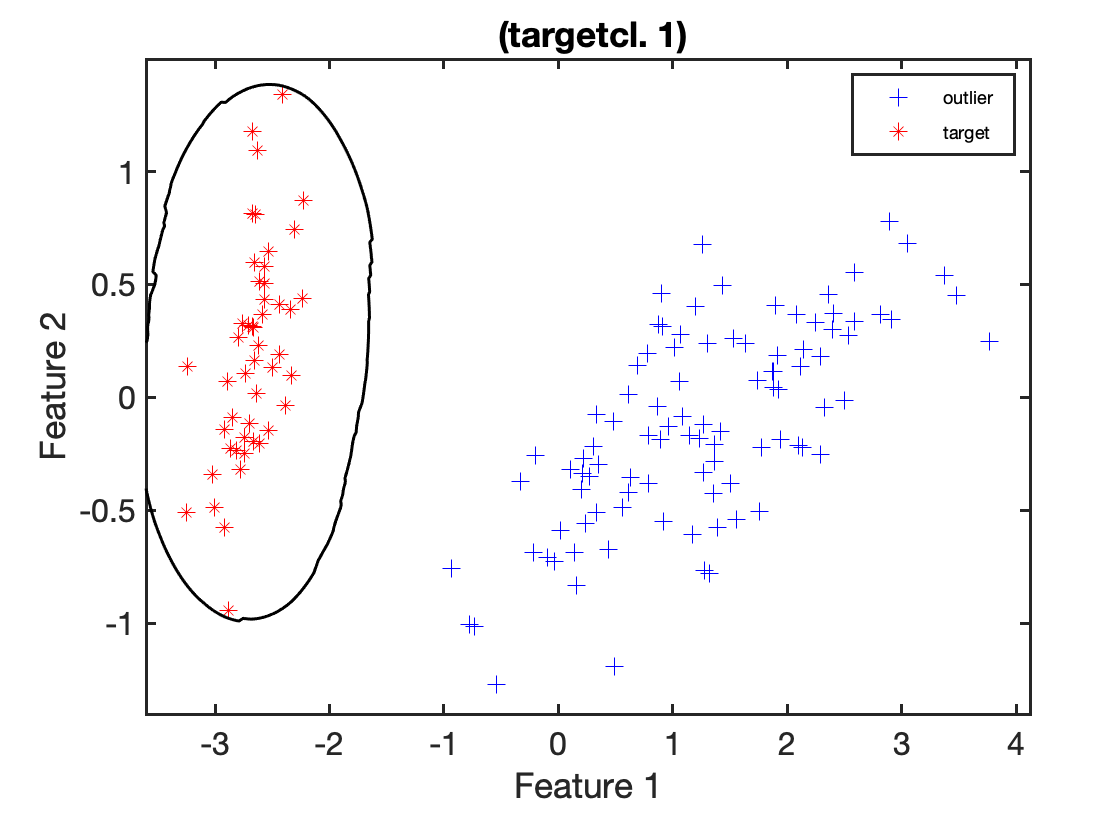
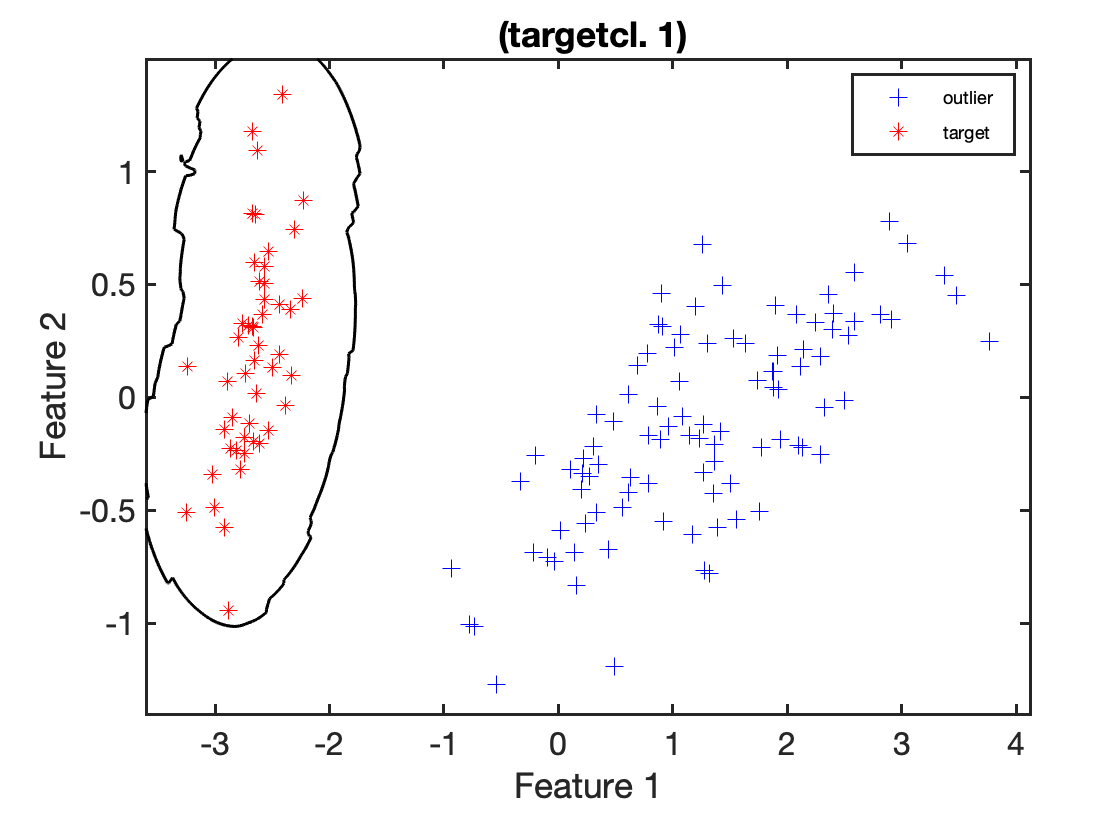
Figures

Changed region(s): [[0.1875, 0.0619, 0.3438, 0.7119], [0.125, 0.1238, 0.1875, 0.4643], [0.125, 0.619, 0.25, 0.7429]]

diff --git a/Algorithms/loci.m b/Algorithms/loci.m
@@ -23,14 +23,7 @@
 % "LOCI: fast outlier detection using the local correlation integral", in 
 % Proceedings of the 19th International Conference on Data Engineering, 2003
 %
-% SEE ALSO
-% datasets, lofdd, knndd
-%
-% Copyright: J.H.M. Janssens, jeroen@jeroenjanssens.com
-% TiCC, Tilburg University
-% P.O. Box 90153, 5000 LE Tilburg, The Netherlands
 
-%function W = locidd(a, fracrej, alpha, forced_threshold, min_n)
 function W = loci(varargin)
 
 argin = shiftargin(varargin,'scalar');
@@ -49,44 +42,140 @@ elseif mapping_task(argin,'training')			% Train a mapping.
     % m = number of objects
     % d = number of dimensions
     [m,d] = size(a);
-
+    
     if(m < 2)
-    	warning('dd_tools:InsufficientData','Dataset contains less than 2 objects');
+        warning('dd_tools:InsufficientData','Dataset contains less than 2 objects');
     end
 
     % Calculate the Euclidian distance matrix and sort it per object
     distmat = sqrt(sqeucldistm(a,a));
     [sD,~] = sort(distmat,2);
-    
+        
     % Each object p has a different set of (alpha) critical distances:
     critical_distances = sort([sD sD/alpha],2);
-    
+    num_critical_distances = size(critical_distances,2);
+
     % Determine for each critical distance which object should be updated:
     [all_critical_distances, ind_all_cd] = sort(critical_distances(:));
     [objects_i, ~] = ind2sub(size(critical_distances), ind_all_cd);
     duplicate_cd = [logical(diff(all_critical_distances)==0); 0];
     duplicate_ind = find(duplicate_cd == 0);
-
+    duplicate_ind_i = 1;
     clear duplicate_cd;
-        
+    
+    % Allocate matrices for the n, nhat, and MDEF value for each
+    % object p, at each critical distance, so that later, a LOCI plot
+    % can be created using this mapping:
+    ns = zeros(m, num_critical_distances);
+    n_hats = zeros(m, num_critical_distances);
+    mdefs = zeros(m, num_critical_distances);
+    
+    % The threshold is determined using the k_sigma value of each object:
+    k_sigmas = zeros(m, 1);
+
+    % Because we increase the range of the neighborhoods, we keep track of
+    % each object what its current couting- and sampling-neighborhood is.
+    critical_distance_index = zeros(m,1);
+    current_alpha_neighborhood_size = zeros(m, 1);
+    current_neighborhood = zeros(m,m);
+
+    % Global critical distance index (to be used with the
+    % all_critical_distances vector):
+    cdi = 1;
+
     % Loop through all the critical distances
     % We use a while loop so that we can skip duplicates
     %disp('Calculating mdefs for all critical distances...');
-    [ns, k_sigmas] = loci_cpp(alpha, all_critical_distances, duplicate_ind, objects_i, distmat, sD, min_n);
+    while(cdi < size(all_critical_distances,1)+1)
+        
+        % Retrieve the actual range and alpha range:
+        r = all_critical_distances(cdi);
+        alpha_r = alpha * r;
+
+        % Are there duplicates of this critical distance?
+        to_cdi = duplicate_ind(duplicate_ind_i);
+        duplicate_ind_i = duplicate_ind_i + 1;
+        
+        % Which objects have this as a critical distance?
+        % (usually two)
+        objects = objects_i(cdi:to_cdi);
+        
+        % When an object has this critical distance more than once (when
+        % there are two other objects with the same distance to it), we
+        % increase their critical distance index with more than one:
+        x = sort(objects(:));
+        difference = diff([x;max(x)+1]);
+        count = diff(find([1;difference]));
+        objects_to_update = x(logical(difference));
+        critical_distance_index(objects_to_update) = critical_distance_index(objects_to_update) + count;
+        % objects_to_update now contains only unique objects
+        
+        % We need to update their neighborhoods first because they might
+        % influence each other with respect to MDEF and k_sigma etc (see below).
+        % Also note that LOCI distinguishes between a sampling (alpha)
+        % neighborhood and a counting neighborhood. That's why we have both
+        % r and alpha_r.
+        for object = objects_to_update'
+            % Update the alpha neighborhood size:
+            current_alpha_neighborhood_size(object) = size(find(sD(object,:) <= alpha_r),2);
+            % Update the couting neighborhood matrix:
+            current_neighborhood(object,:) = logical(distmat(object,:) <= r);
+        end
+
+        % Loop again over these objects to compute the MDEF and k_sigma
+        % values:
+        i = 0;
+        for object = objects_to_update'
+            % n = sampling neighborhood count:
+            n = current_alpha_neighborhood_size(object);
+            % n_hat = mean of sampling neighborhood count of the neighbors
+            % within the counting neighborhood:
+            n_of_r_neighbors = current_alpha_neighborhood_size(logical(current_neighborhood(object,:)));
+            n_hat = mean(n_of_r_neighbors);
+            % MDEF = multi-granularity deviation factor:
+            mdef = 1 - (n / n_hat);
+
+            % Standard deviation of alpha-neighborhood size of r-neighbors:
+            % (with 1e-10 we suppress the divide by zero warning)
+            sample_size = sum(current_neighborhood(object,:));
+            std_n_of_r_neighbors = sqrt(mean((n_of_r_neighbors - n_hat).^2)) + 1e-10;
+            normalized_deviation = std_n_of_r_neighbors / n_hat;
+            k_sigma = mdef / normalized_deviation;
+
+            % Get the critical distance indices of this object for which
+            % we are updating. Again, equal to the number of duplicate
+            % critical distances r:
+            i = i +1;
+            indices_to_update = critical_distance_index(object)-(count(i)-1):critical_distance_index(object);
+
+            % Update the matrices:
+            ns(object, indices_to_update) = n;
+            n_hats(object, indices_to_update) = n_hat;
+            mdefs(object, indices_to_update) = mdef;
+
+            % For stability (see article, min_n is 20 by default)
+            
+            if(sample_size >= min_n)
+                k_sigmas(object) = max(k_sigmas(object), k_sigma);
+            end
+        end
+
+        % Go to the next critical distance (which isn't a duplicate of the current one)
+        cdi = to_cdi + 1;
+    end
 
     % In the LOCI article, the threshold k_sigma is set to 3.
     % If you which to force this, then you need to specify it as a
     % paramater. Otherwise it is computed like all other data description
     % methods.
-    
     if((isempty(forced_threshold)) || (forced_threshold == -1))
         threshold = dd_threshold(k_sigmas, 1-fracrej);
     else
         threshold = forced_threshold;
     end
+    
     % Save all useful data:
     W.x = +a;
-    W.out = k_sigmas;
     W.alpha = alpha;
     % Include the matrices ns, n_hats, and mdefs so that later, a LOCI plot
     % can be created.
@@ -101,10 +190,10 @@ elseif mapping_task(argin,'training')			% Train a mapping.
     %W.scale = mean(k_sigmas);
     W = prmapping(mfilename,'trained',W,str2mat('target','outlier'),d,2);
     W = setname(W,sprintf('LOCI a:%1.2f, min_n:%d', alpha, min_n));
-    
+
 elseif mapping_task(argin,'trained execution')            % testing
 
-    [a,fracrej,alpha,forced_threshold,min_n] = deal(argin{:});
+   [a,fracrej,alpha,forced_threshold,min_n] = deal(argin{:});
     % Get the data from the training phase:
     W = getdata(fracrej);
     alpha = W.alpha;
@@ -115,8 +204,8 @@ elseif mapping_task(argin,'trained execution')            % testing
     W = rmfield(W, 'ns');
 
     % m = number of test objects, mt = number of training objects, d = number of dimensions
-    [m,~] = size(a);
-    [mt,~] = size(W.x);
+    [m,d] = size(a);
+    [mt,d] = size(W.x);
 
     k_sigmas = zeros(m,1);
 
@@ -138,10 +227,76 @@ elseif mapping_task(argin,'trained execution')            % testing
     [objects_i, ~] = ind2sub(size(critical_distances), ind_all_cd);
     duplicate_cd = [logical(diff(all_critical_distances) == 0); 0];
     duplicate_ind = find(duplicate_cd == 0);
-       
+    duplicate_ind_i = 1;
+    num_all_critical_distances = size(all_critical_distances,1);
+    
+    % Maintain an index so that the current alpha neighborhood size does
+    % not have to computed over and over again
+    train_current_critical_distance_index = ones(mt, 1);
+    train_current_alpha_neighborhood_size = ones(mt, 1);
+    %train_current_critical_distance = train_critical_distances(:, 1);
+    train_next_critical_distance = train_critical_distances(:, 2);
+    size_train_critical_distances = size(train_critical_distances);
+    
+   
+    % Global critical distance index (to be used with the
+    % all_critical_distances vector):
+    cdi = 1;
+    clear critical_distances ind_all_cd duplicate_cd;
+
     % Loop through all the critical distances
     % We use a while loop so that we can skip duplicates
-    k_sigmas = loci_train(alpha, all_critical_distances, duplicate_ind, objects_i, train_critical_distances, distmat, train_ns, min_n);
+    while(cdi <= num_all_critical_distances)
+               
+        r = all_critical_distances(cdi);
+        alpha_r = alpha * r;
+
+        update_indices = (r > train_next_critical_distance);
+        
+        % Update the neighborhood sizes of the objects
+        while(sum(update_indices) > 0)
+            train_current_critical_distance_index = train_current_critical_distance_index + update_indices;
+            train_current_alpha_neighborhood_size = train_ns(sub2ind(size_train_critical_distances, 1:mt, (train_current_critical_distance_index)'))';
+            train_next_critical_distance = train_critical_distances(sub2ind(size_train_critical_distances, 1:mt, (1+train_current_critical_distance_index)'))';
+            update_indices = (r > train_next_critical_distance);    
+        end
+
+        to_cdi = duplicate_ind(duplicate_ind_i);
+        duplicate_ind_i = duplicate_ind_i + 1;
+        objects = objects_i(cdi:to_cdi);
+        
+        if(length(objects) > 1)
+            x = sort(objects(:));
+            difference = diff([x;max(x)+1]);
+            objects_to_update = x(logical(difference))';
+        else
+            objects_to_update = objects;
+        end
+        
+        for object = objects_to_update
+            
+            n = 1 + size(find(distmat(object,:) <= alpha_r),2);
+            r_neighbors = logical(distmat(object,:) <= r);
+            n_of_r_neighbors = [n ; train_current_alpha_neighborhood_size(logical(r_neighbors))];
+            n_hat = mean(n_of_r_neighbors);
+            mdef = 1 - (n / n_hat);
+
+            %with 1e-10 we suppress the divide by zero warning
+            std_n_of_r_neighbors = sqrt(mean((n_of_r_neighbors - n_hat).^2)) + 1e-10;
+            normalized_deviation = std_n_of_r_neighbors / n_hat;
+            k_sigma = mdef / normalized_deviation;
+            
+            sample_size = sum(r_neighbors) + 1;
+            if(sample_size >= min_n)
+                k_sigmas(object) = max(k_sigmas(object), k_sigma);
+            end
+            
+        end
+        
+        %go to the next critical distance
+        cdi = to_cdi + 1;
+        
+    end
 
     % store the results in the final dataset:
     out = [k_sigmas repmat(threshold,[m,1])];
@@ -151,4 +306,3 @@ elseif mapping_task(argin,'trained execution')            % testing
 else
    error('Illegal call to locidd');
 end
-return

diff --git a/Algorithms/iforest_dd.m b/Algorithms/iforest_dd.m
@@ -1,14 +1,8 @@
-%RANDOM_DD Random one-class classifier
+%IFOREST_DD Isolation Forest classifier
 % 
-%       W = RANDOM_DD(A,FRACREJ)
+%       W = IFOREST_DD(A,FRACREJ, NUMTREE, NUMSUB)
 % 
-% This is the trivial one-class classifier, randomly assigning labels
-% and rejecting FRACREJ of the data objects. This procedure is just to
-% show the basic setup of a Prtools classifier, and what is required
-% to define a one-class classifier for dd_tools.
-
-% Copyright Lorne Swersky, swersky@ualberta.ca
-% Faculty of Computing Science, University of Alberta
+%
 
 
 function W = iforest_dd(a, fracrej, numTree, numSub)
